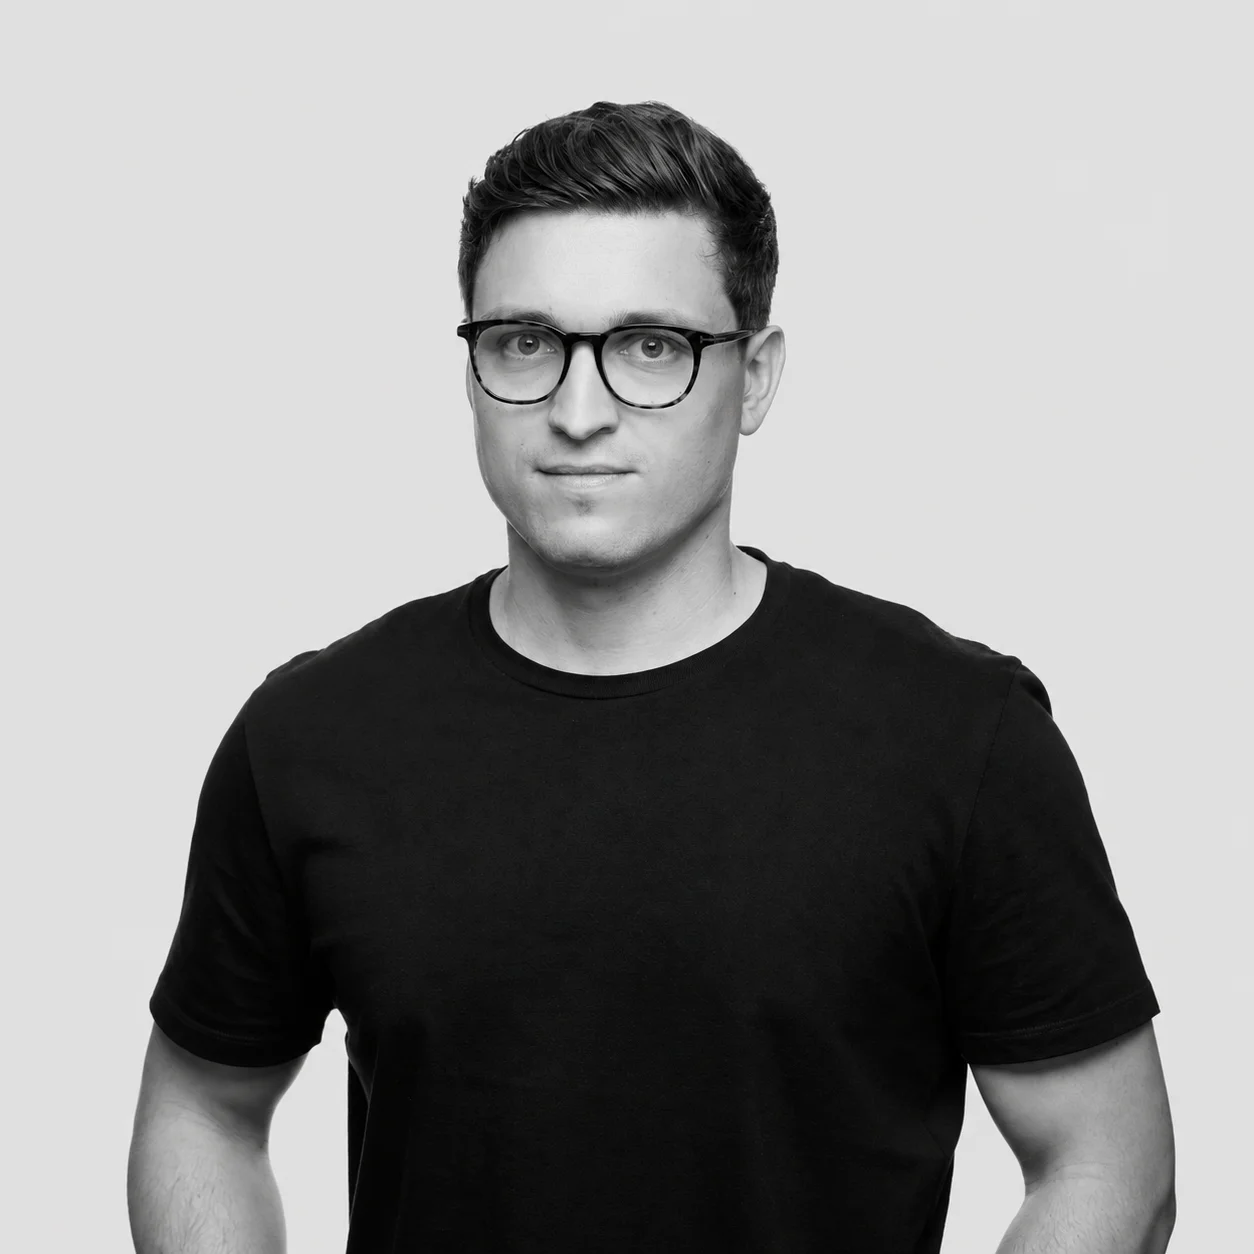
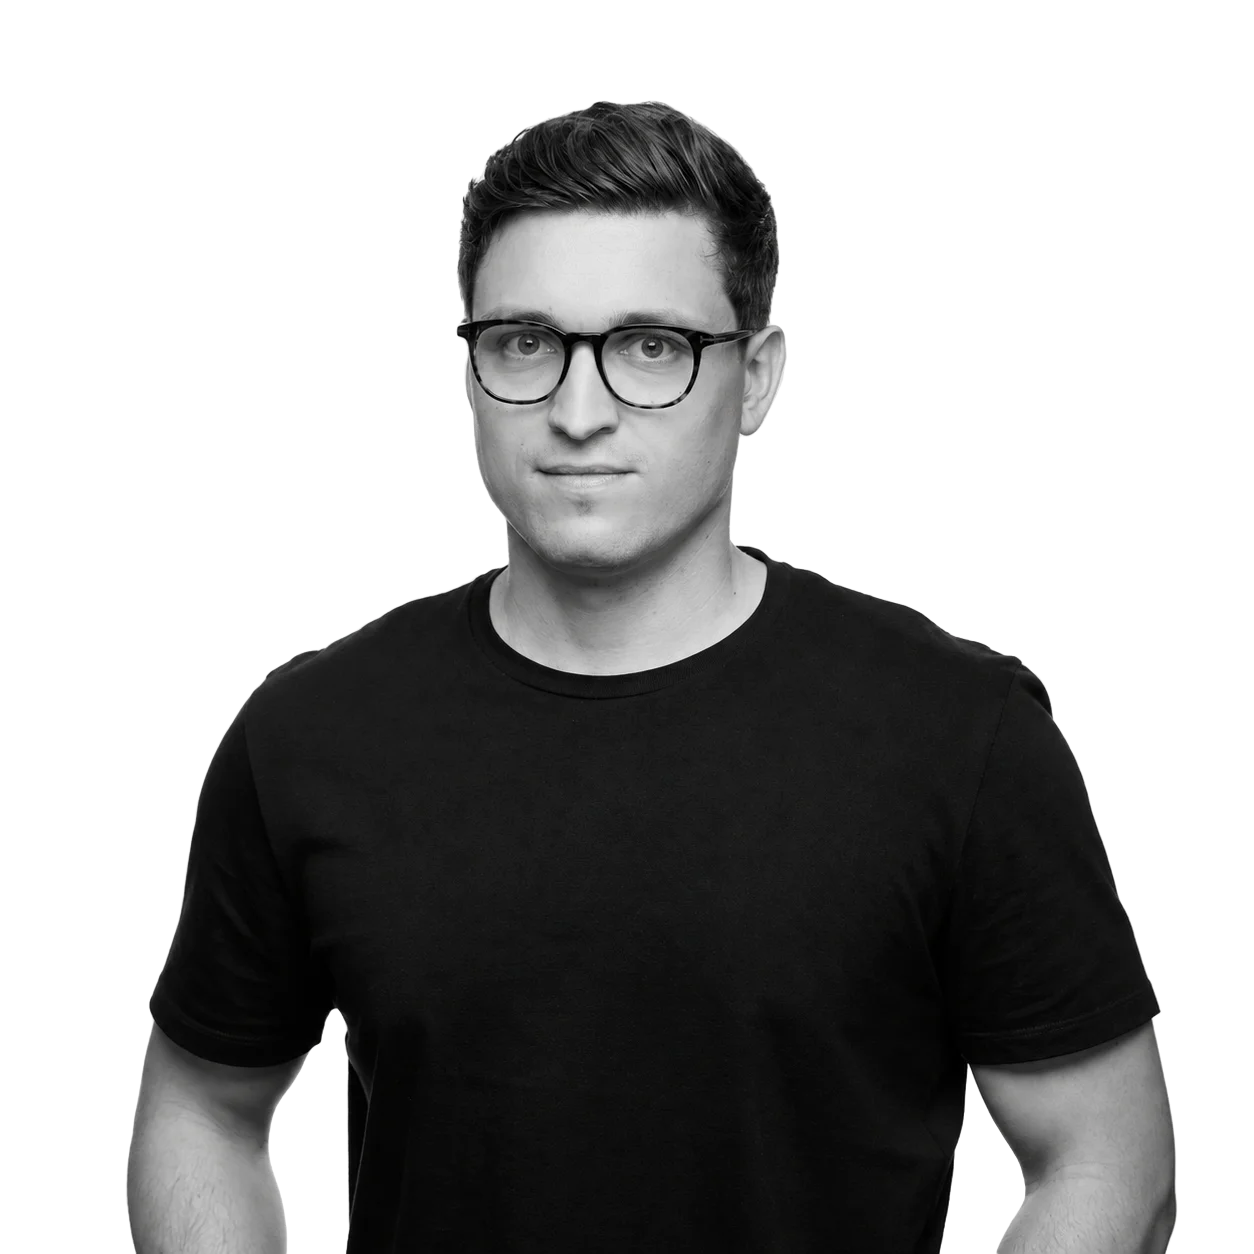
Remove Marek portrait background using local person segmentation

diff --git a/scripts/generate-person-mask.swift b/scripts/generate-person-mask.swift
@@ -1,0 +1,17 @@
+import AppKit
+import Vision
+import CoreImage
+
+let source = URL(fileURLWithPath: CommandLine.arguments[1])
+let destination = URL(fileURLWithPath: CommandLine.arguments[2])
+let image = CIImage(contentsOf: source)!
+let request = VNGeneratePersonSegmentationRequest()
+request.qualityLevel = .accurate
+request.usesCPUOnly = true
+request.outputPixelFormat = kCVPixelFormatType_OneComponent8
+try VNImageRequestHandler(url: source).perform([request])
+guard let buffer = request.results?.first?.pixelBuffer else { fatalError("No person mask returned") }
+let mask = CIImage(cvPixelBuffer: buffer)
+let scaled = mask.transformed(by: CGAffineTransform(scaleX: image.extent.width / mask.extent.width, y: image.extent.height / mask.extent.height))
+let context = CIContext()
+try context.writePNGRepresentation(of: scaled, to: destination, format: .RGBA8, colorSpace: CGColorSpaceCreateDeviceRGB())
